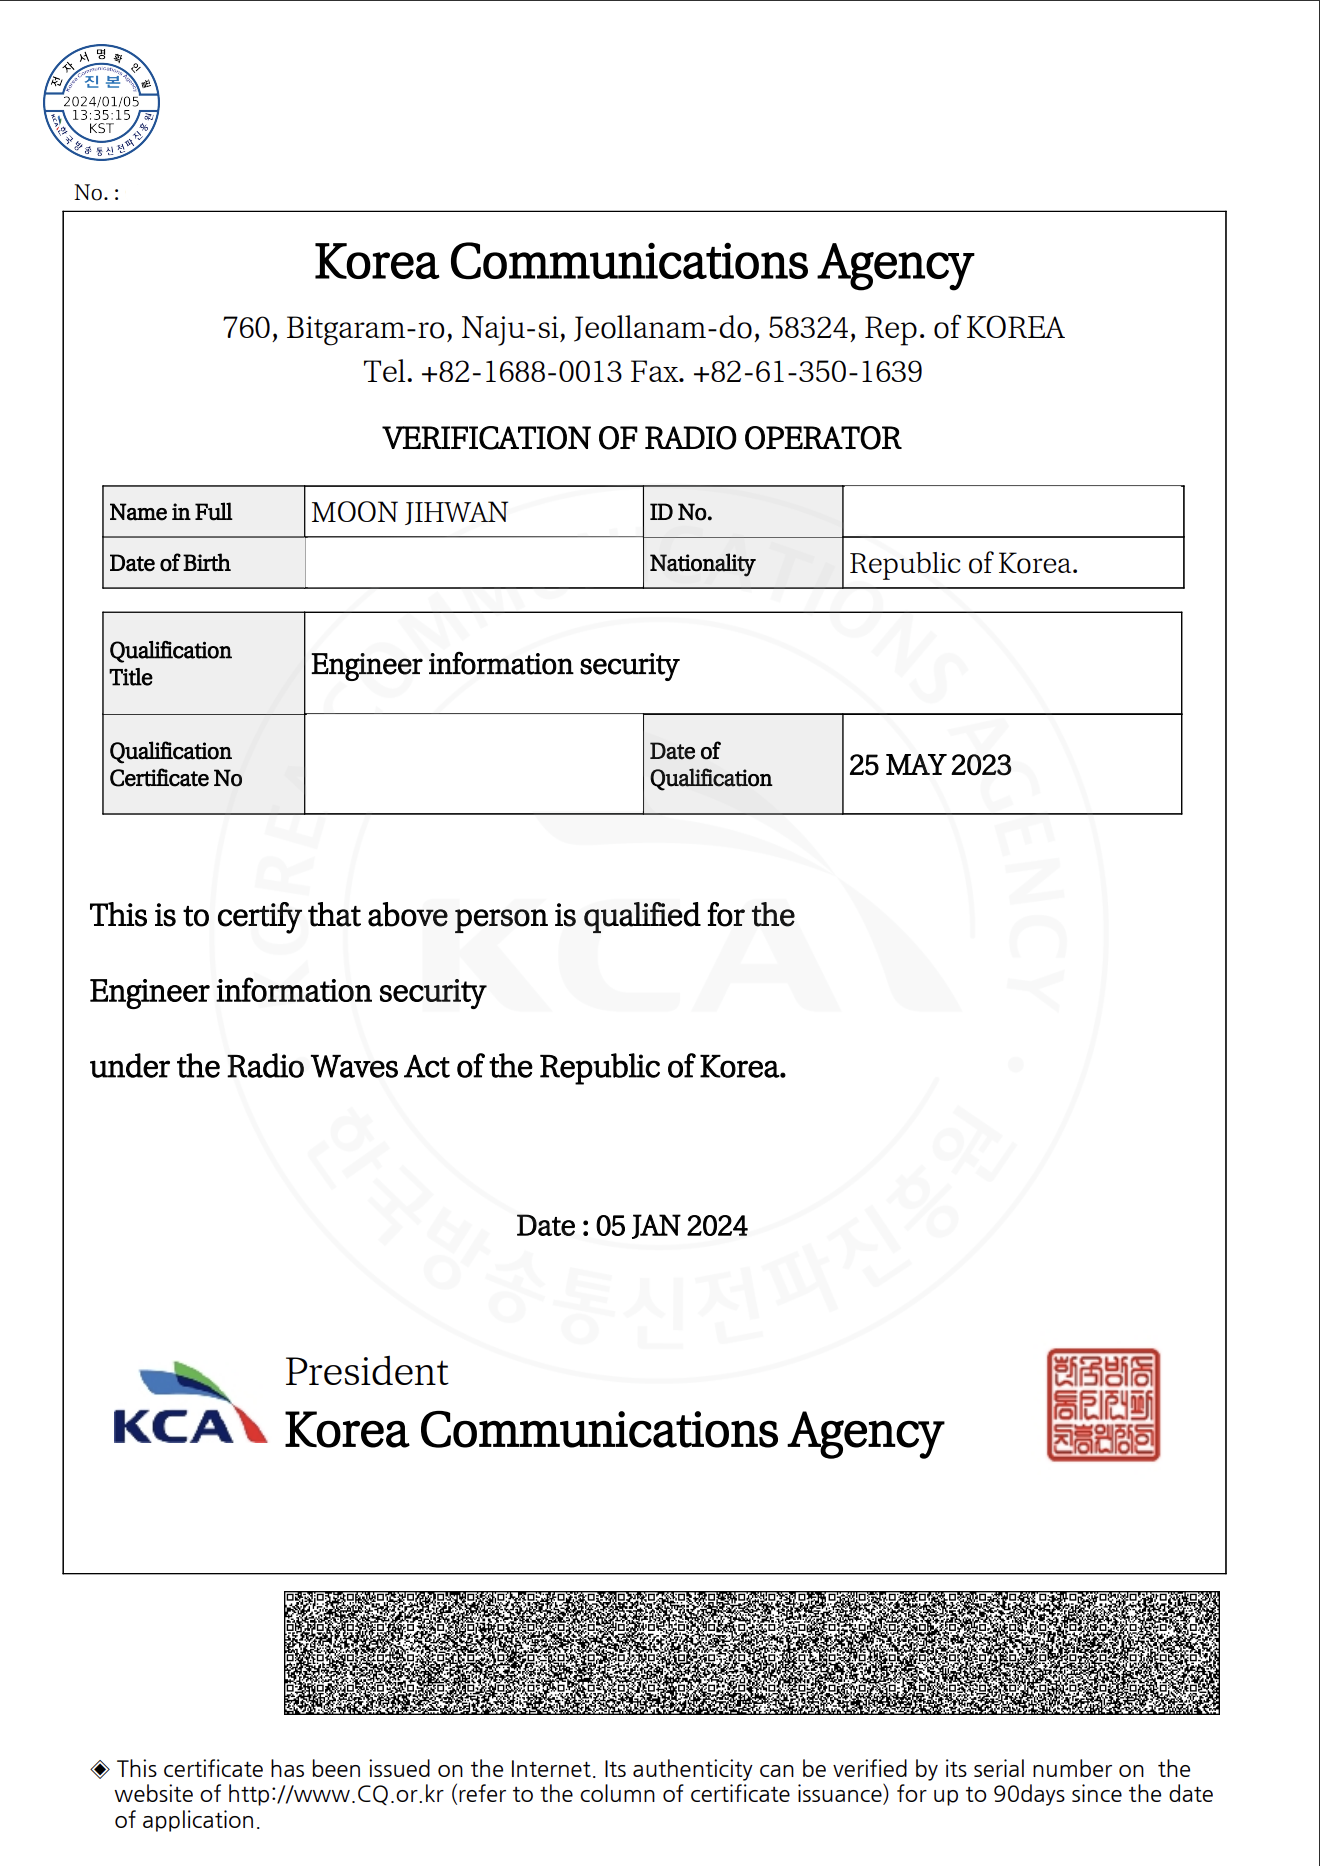
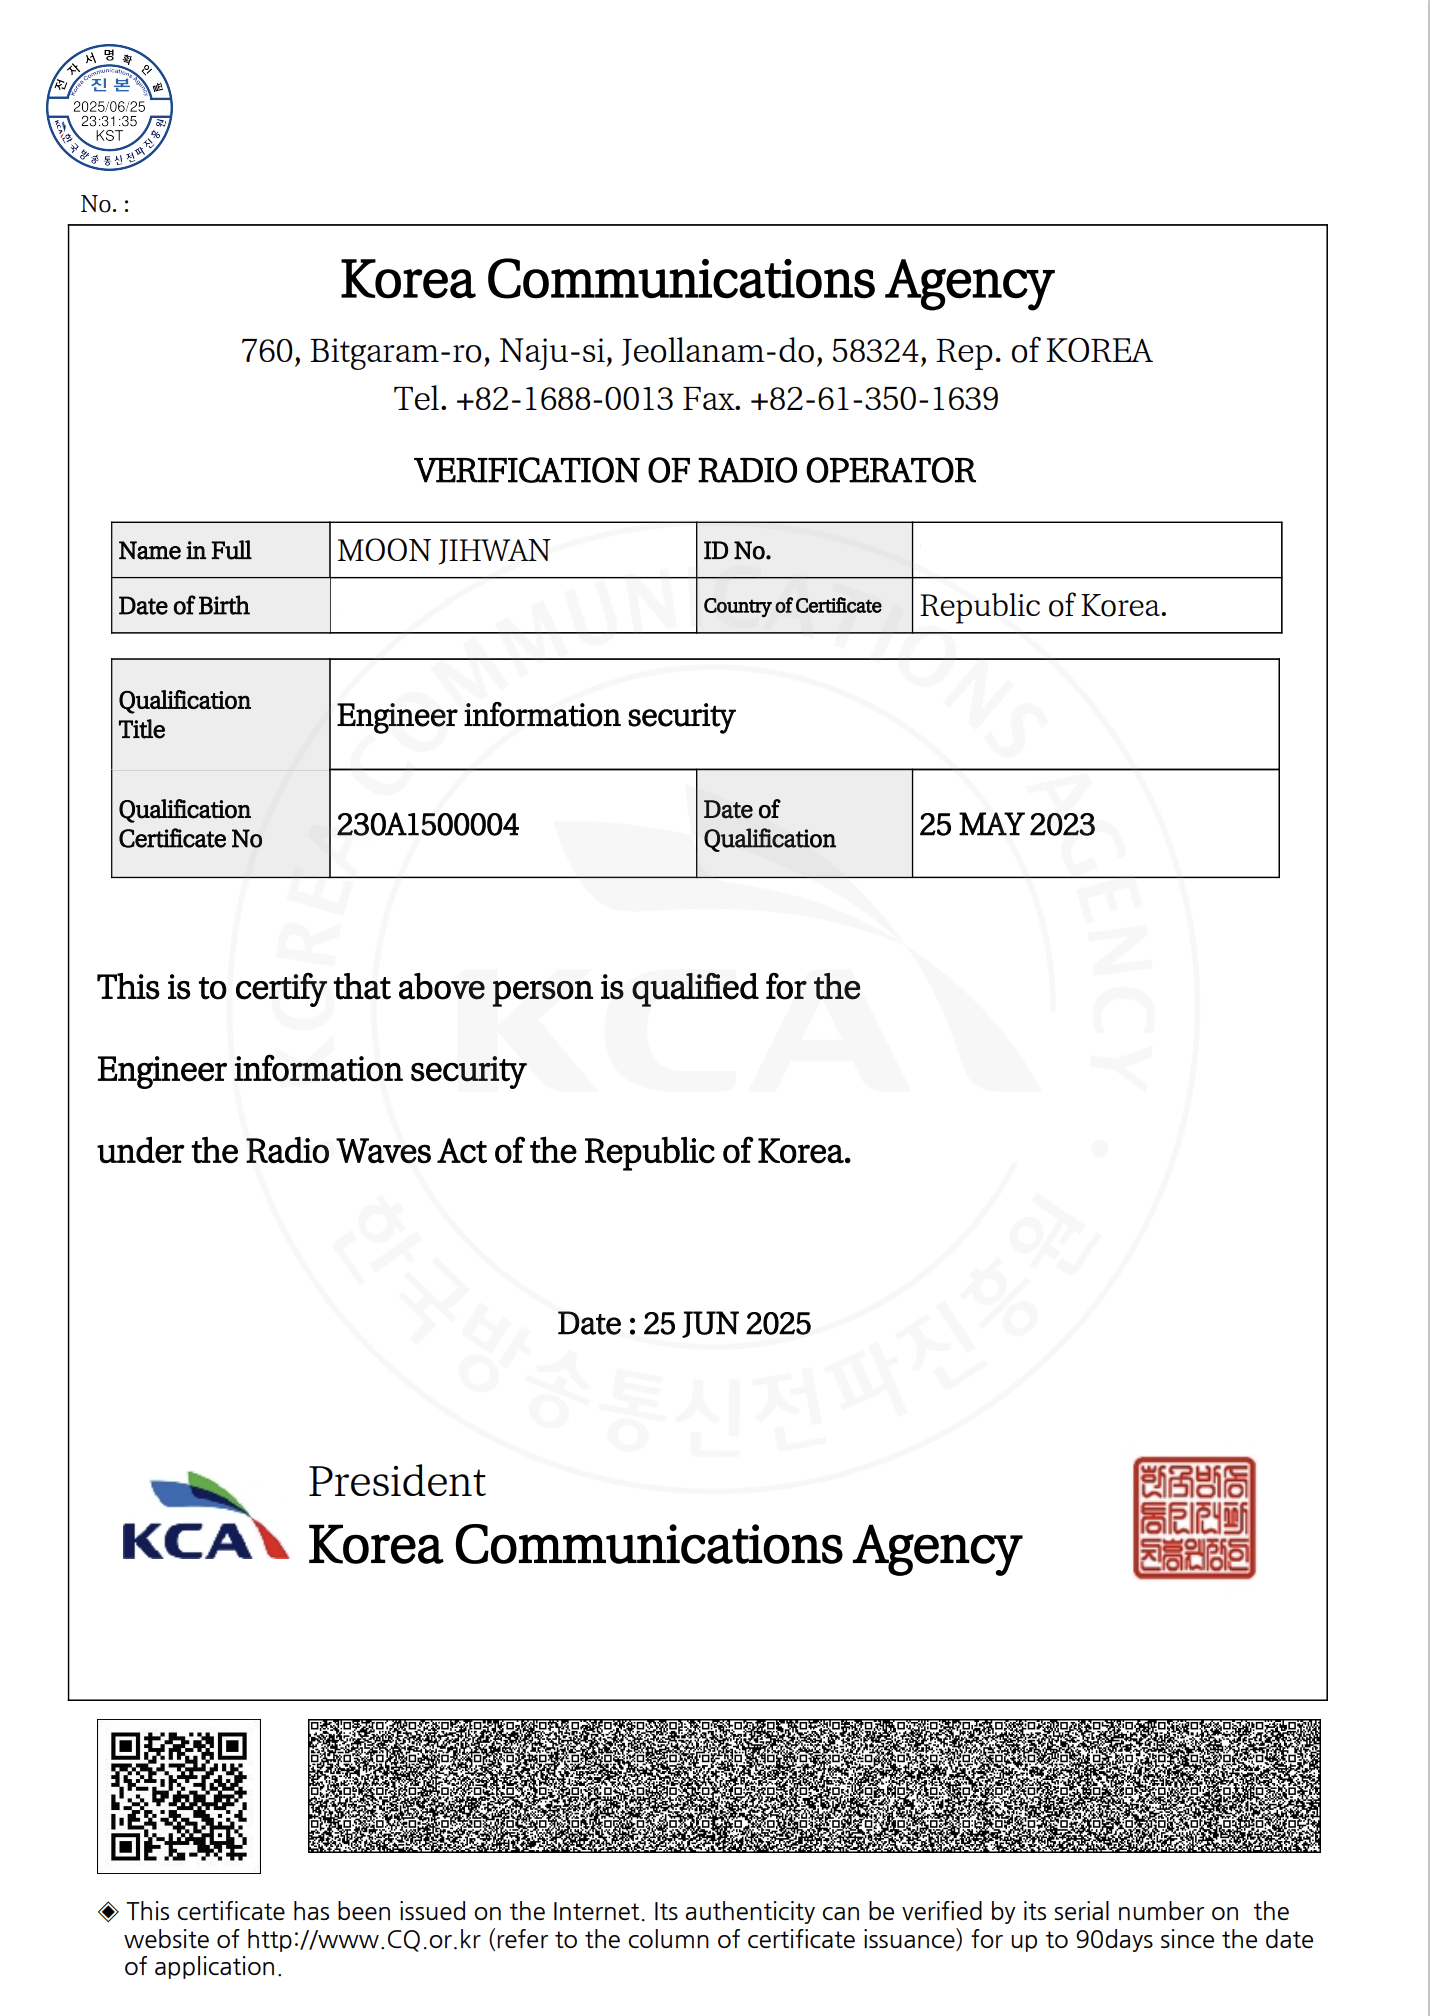
Update readme

diff --git a/README.md b/README.md
@@ -11,11 +11,11 @@ This repository is for uploading the certificates I have acquired.
 | Engineer Information Processing      | Human Resources Development Service of Korea                                | Jun 2021            | [Click](<certificates/정보처리기사(en).png>) |
 | Engineer Computer System Application | Human Resources Development Service of Korea                                | Jun 2022            | [Click](<certificates/정보처리기사(en).png>) |
 | Engineer information security        | Korea Communication Agency                                                  | May 2023            | [Click](<certificates/정보보안기사(en).png>) |
-| SQL Developer                        | Korea Data Agency                                                           | Jul 2023            | [Click](certificates/SQLD.png)               |
-| TOPCIT Level 4(A score of 760)       | Institute for Information & Communications Technology Planning & Evaluation | Nov 2023            | [Click](<certificates/TOPCIT(en).png>)       |
+| SQL Developer                        | Korea Data Agency                                                           | Jul 2023            | [Click](<certificates/SQLD(en).png>)         |
+| TOPCIT Level 5(A score of 875)       | Institute for Information & Communications Technology Planning & Evaluation | May 2025            | [Click](<certificates/TOPCIT(en).png>)       |
 
 ## Language Certificates
 
 | Title | Institution | Score | Date of Acquisition |
 | ----- | ----------- | ----- | ------------------- |
-| TOEIC | ETS         | 965   | Jan 2025            |
+| TOEIC | ETS         | 985   | Feb 2025            |

diff --git a/README-ko.md b/README-ko.md
@@ -12,10 +12,10 @@
 | 전자계산기조직응용기사 | 한국산업인력공단       | 2022. 06. | [클릭](certificates/정보처리기사.png) |
 | 정보보안기사           | 한국방송통신전파진흥원 | 2023. 05. | [클릭](certificates/정보보안기사.png) |
 | SQL 개발자             | 한국데이터산업진흥원   | 2023. 07. | [클릭](certificates/SQLD.png)         |
-| TOPCIT 수준 4(760점)   | 정보통신기획평가원     | 2023. 11. | [클릭](certificates/TOPCIT.png)       |
+| TOPCIT 수준 5(875점)   | 정보통신기획평가원     | 2025. 05. | [클릭](certificates/TOPCIT.png)       |
 
 ## 어학자격
 
 | 자격명 | 기관 | 점수 | 취득일    |
 | ------ | ---- | ---- | --------- |
-| TOEIC  | ETS  | 965  | 2025. 01. |
+| TOEIC  | ETS  | 985  | 2025. 02. |
